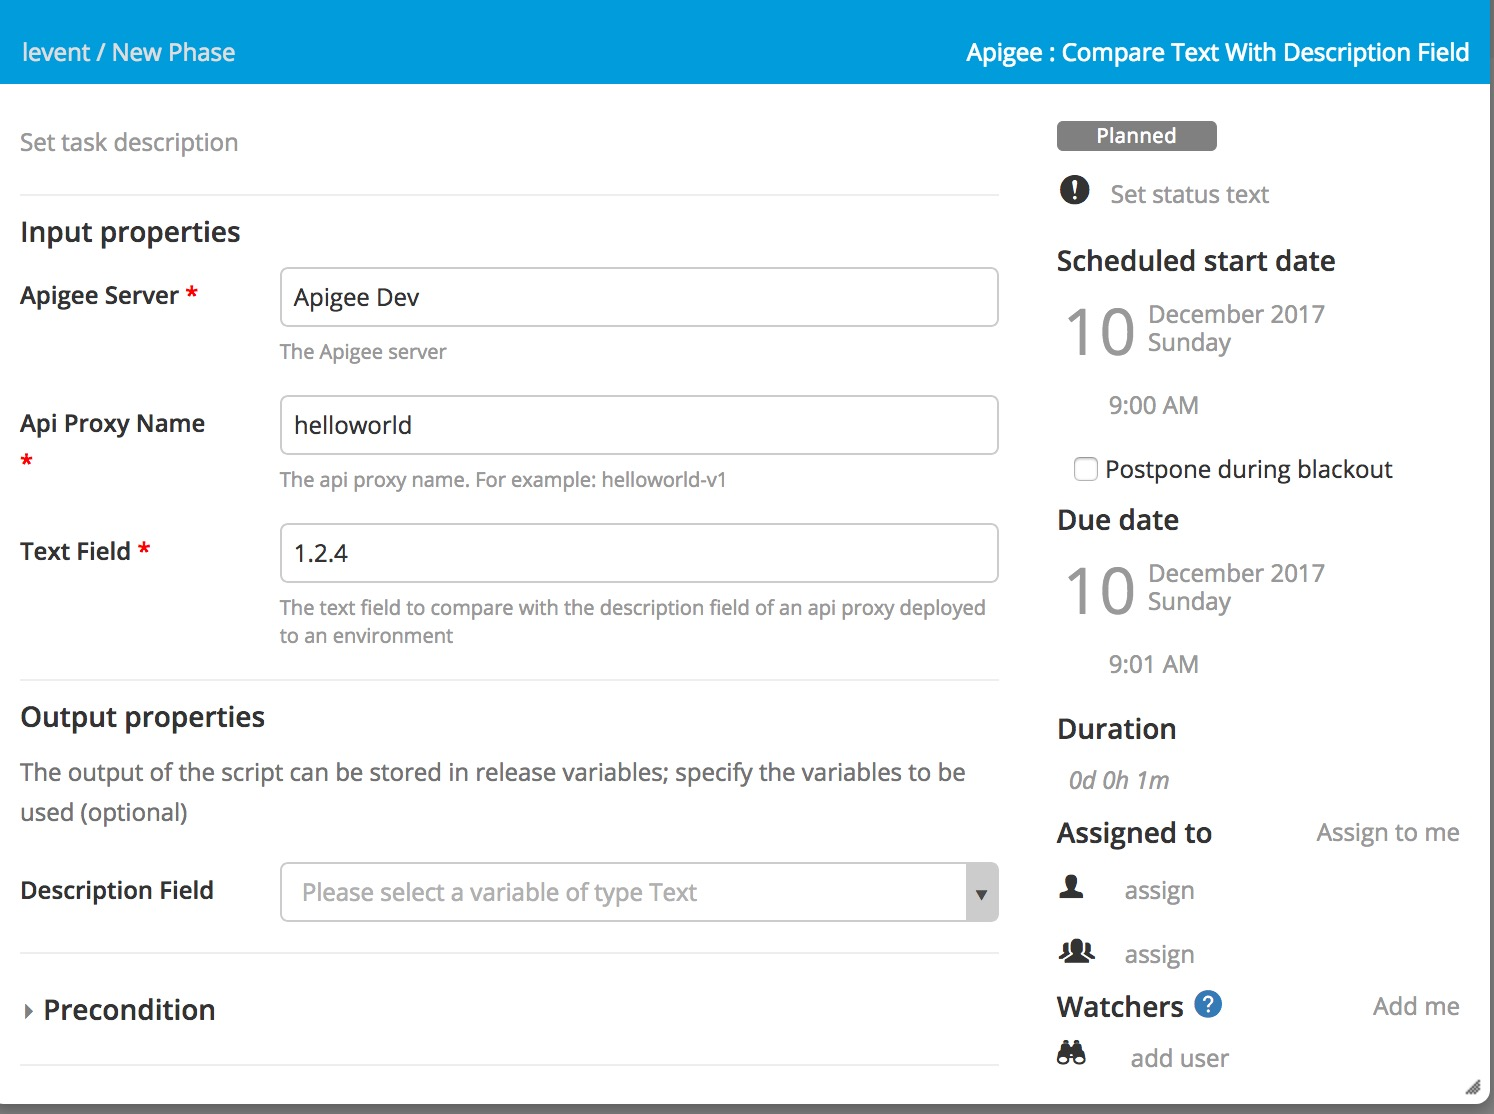
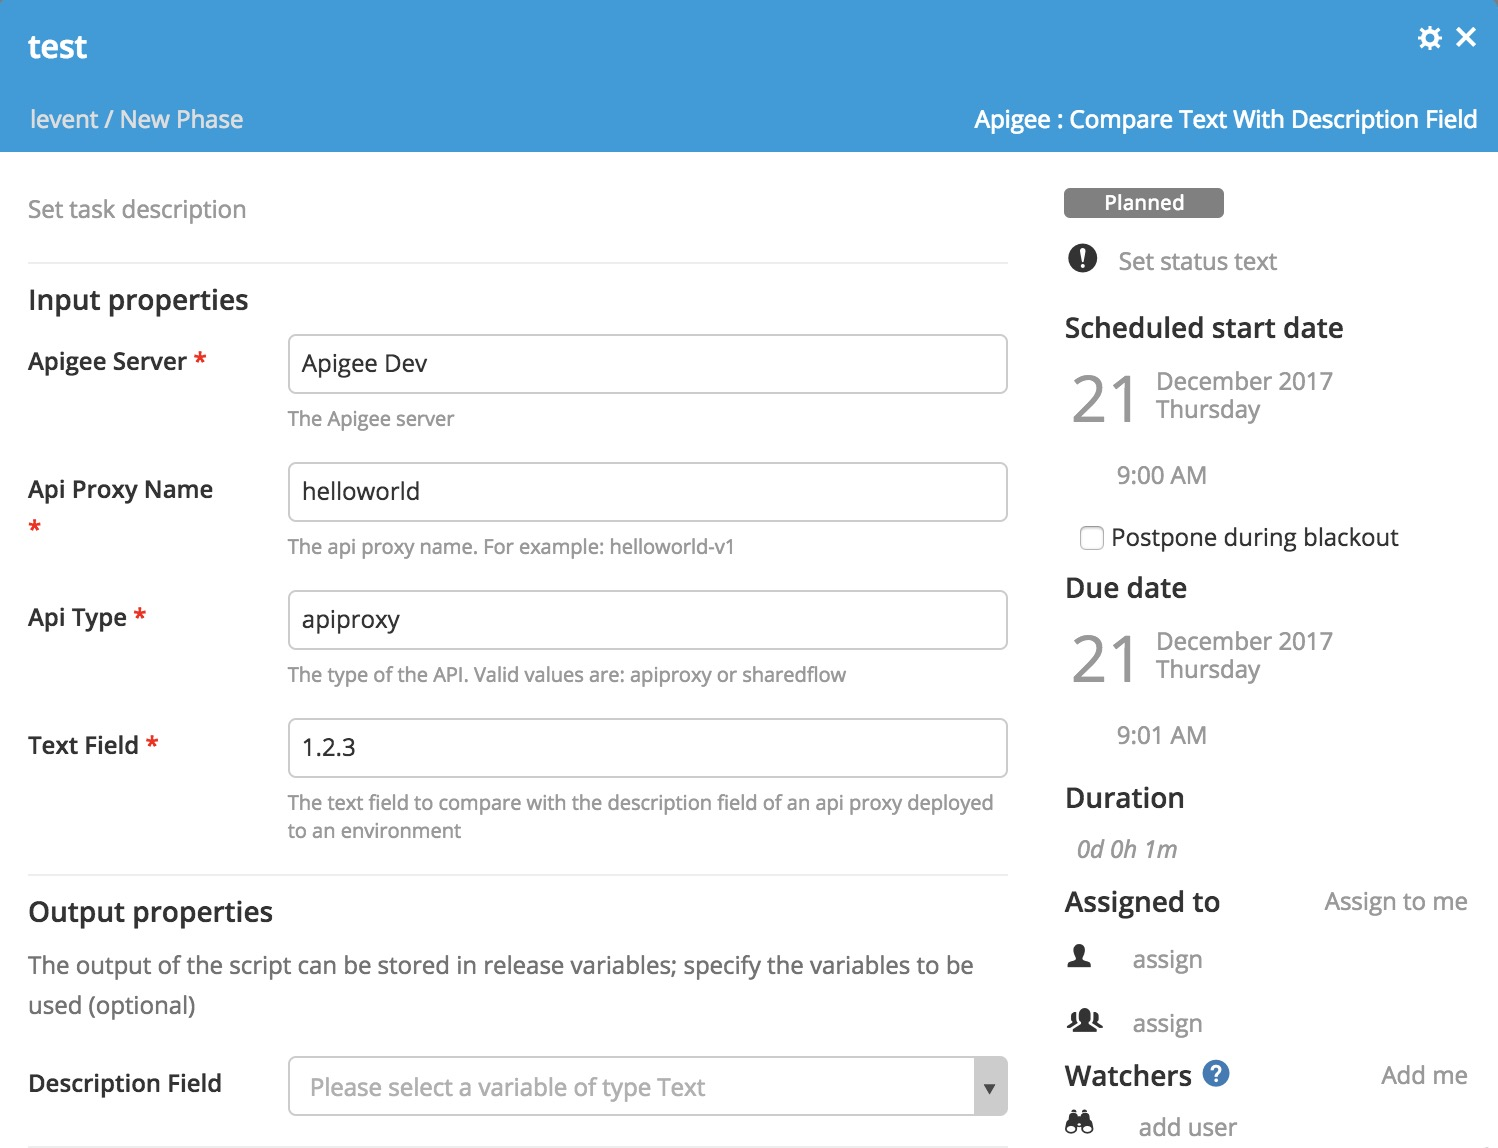
shaving the yuk

diff --git a/src/main/resources/apigee/ApigeeClient.py b/src/main/resources/apigee/ApigeeClient.py
@@ -72,7 +72,7 @@ class ApigeeClient(object):
             sys.exit(1)
         jsonData = json.loads(resp.text)
         descriptionContent = jsonData['description']
-        print("Api proxy %s revision number %s has description field content %s \n" % (apiProxyName, revisionNumber, descriptionContent))
+        print("%s %s revision number %s has description field content %s \n" % (apiType, apiProxyName, revisionNumber, descriptionContent))
         return descriptionContent
 
     def compare_text_field_with_description_field(self, apiProxyName, environmentName, apiType, textField):
